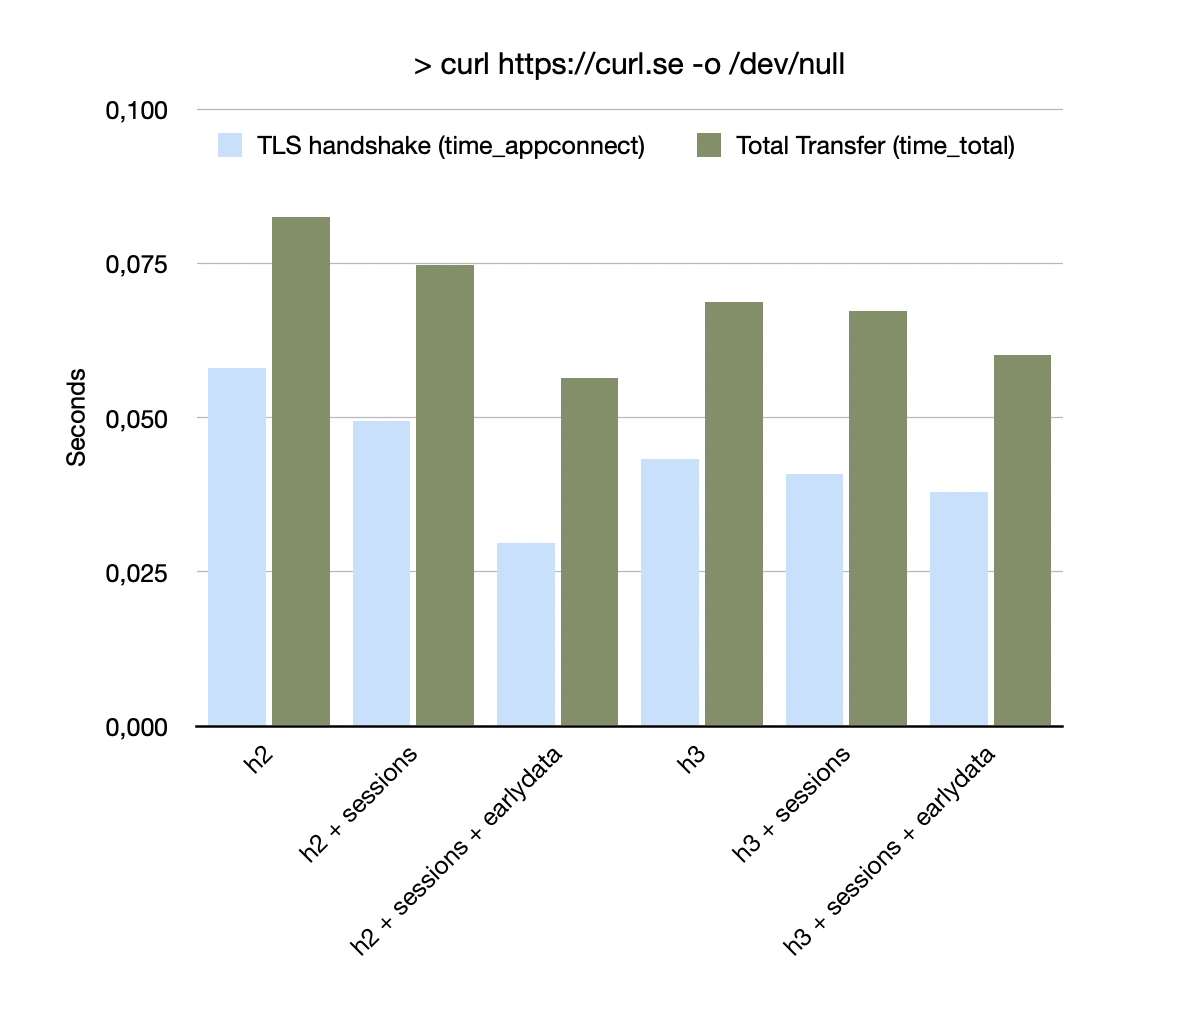
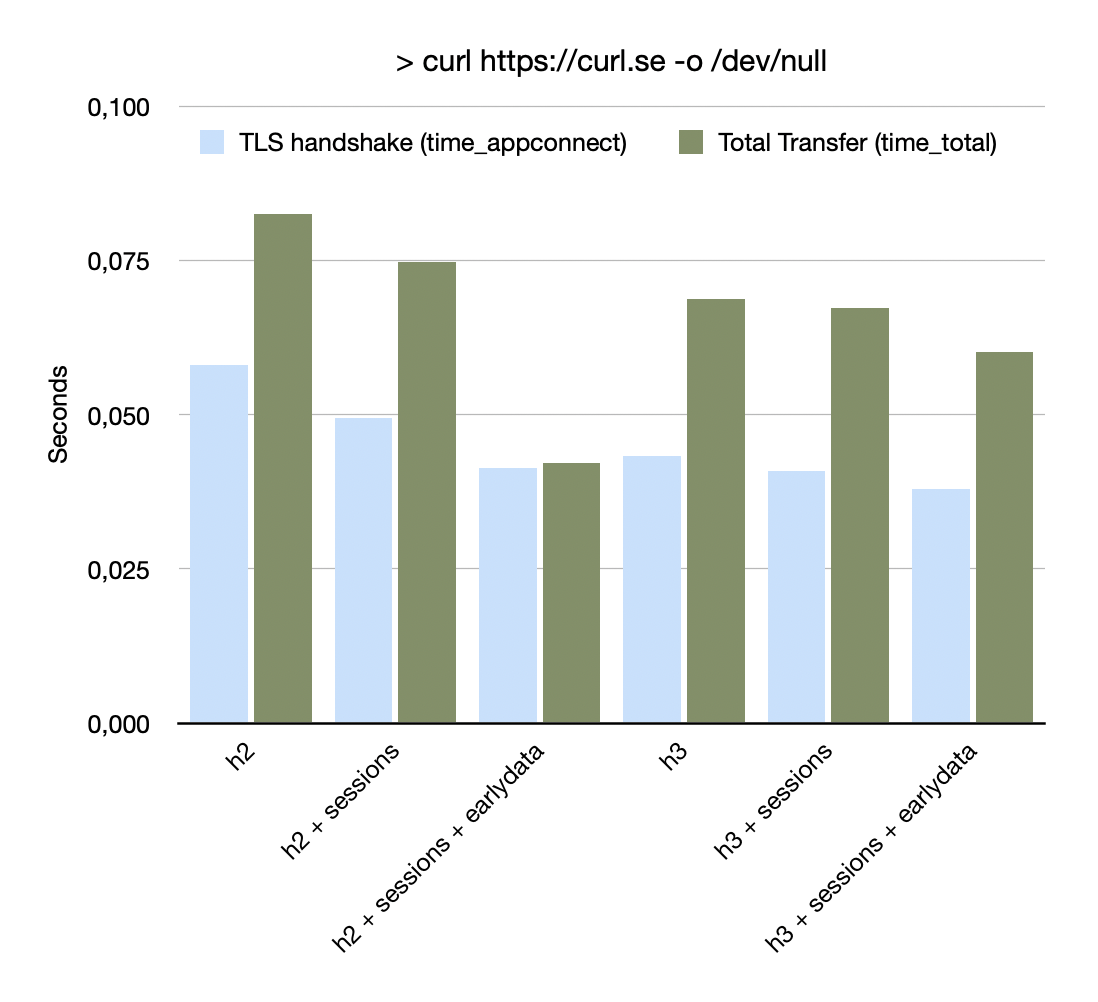
updated with correct appconnect for h2+earldata added note about security aspect of session ticket as provided by backends

diff --git a/curl-sessions-earlydata.md b/curl-sessions-earlydata.md
@@ -15,7 +15,7 @@ Now, what is this good for? I'll explain some TLS details below, but who wants t
 
 ### Benchmark (ymmv)
 
-I cannot predict how this will work on your system. I did measurements on mine and the graph shows what I am seeing. I did 100 runs of 
+I cannot predict how this will work on your system. This very much depends on the latency and bandwidth to the server. I did measurements from my machine to `curl.se` (fronted by Fastly's CDN). I did 100 runs of 
 
 ```
 > curl -s https://curl.se -o /dev/null -w '%{time_appconnect} %{time_total}\n'
@@ -53,6 +53,8 @@ Now, why doesn't `curl` do this automatically all the time? Well, there are some
 `curl` uses salted hashes instead of hostnames in the file. This prevents anyone who can read the file to easily see what hosts you have been talking to. This works similar to `ssh`'s 'known_hosts' file, if you are familiar with that. 
 
 But the salted hash does not prevent someone from checking if you have connected to `www.furries.net` in the recent past. Or try a brute-force attack on guessed names.
+
+**Also important**, and maybe even more relevant, the session tickets itself is stored unencrypted (only base64 encoded). The ticket is coming form the TLS backend used and contains host specific information. GnuTLS stores the hostname and certificate information there. So, by base64 decoding that part of a session file, it is easy to see where the session ticket came from. (Another reason why this feature is experimental for now.)
 
 Early Data has other security implications. It is not as secure as other TLS traffic. It's a trade off. And it depends what kind of requests you do with it. There are many articles about it by people more knowledgeable than me, if you are interested.
 
